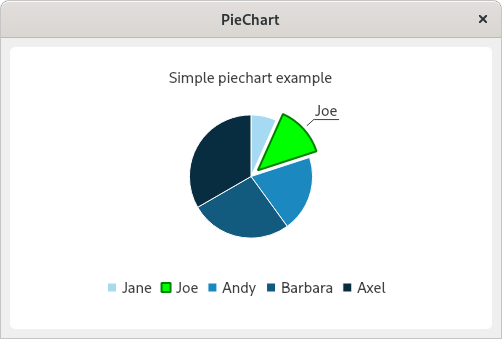
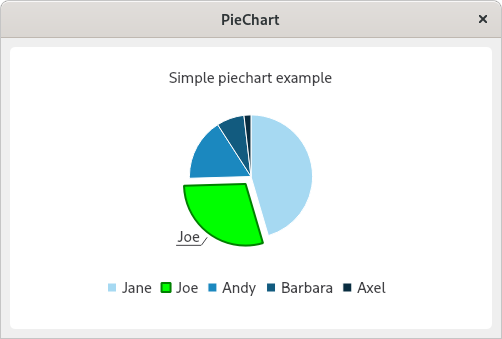
update

Changed region(s): [[0.3586, 0.3245, 0.6275, 0.7375], [0.6275, 0.295, 0.6873, 0.354]]

diff --git a/qtcharts_piechart.py b/qtcharts_piechart.py
@@ -33,11 +33,11 @@ class PieChart(QChartView):
 
     def init_ui(self):
         series = QPieSeries()
-        series.append('Jane', 1)
-        series.append('Joe', 2)
-        series.append('Andy', 3)
+        series.append('Jane', 25)
+        series.append('Joe', 16)
+        series.append('Andy', 9)
         series.append('Barbara', 4)
-        series.append('Axel', 5)
+        series.append('Axel', 1)
 
         slice1 = series.slices()[1]
         slice1.setExploded()
